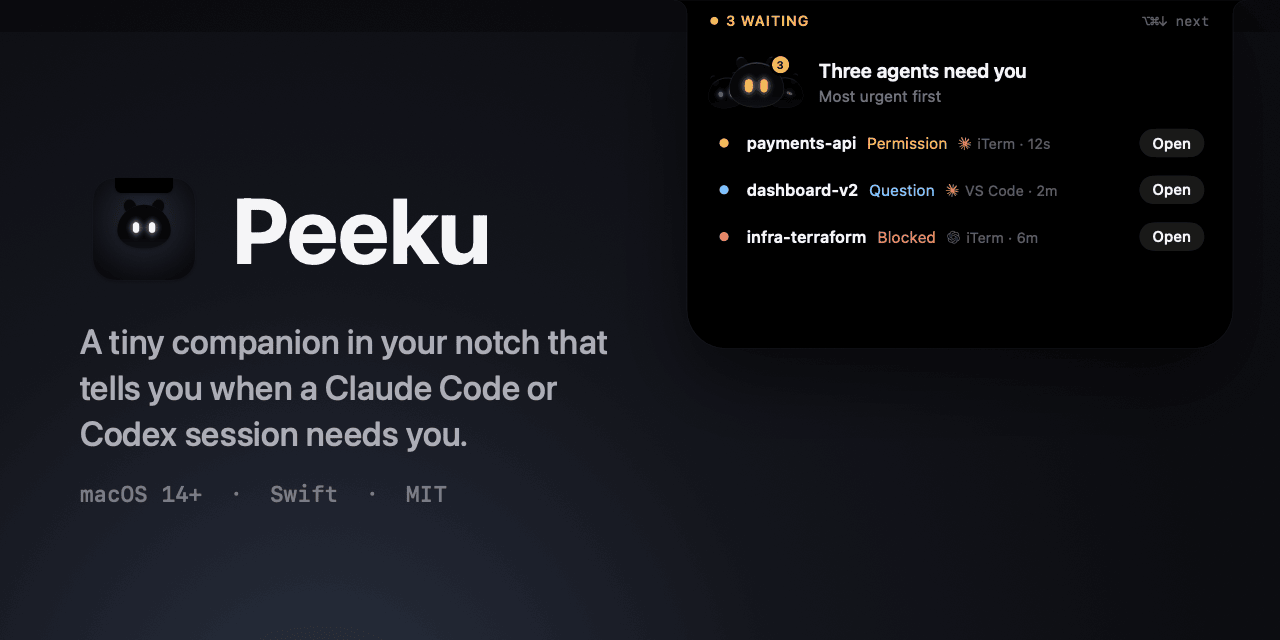
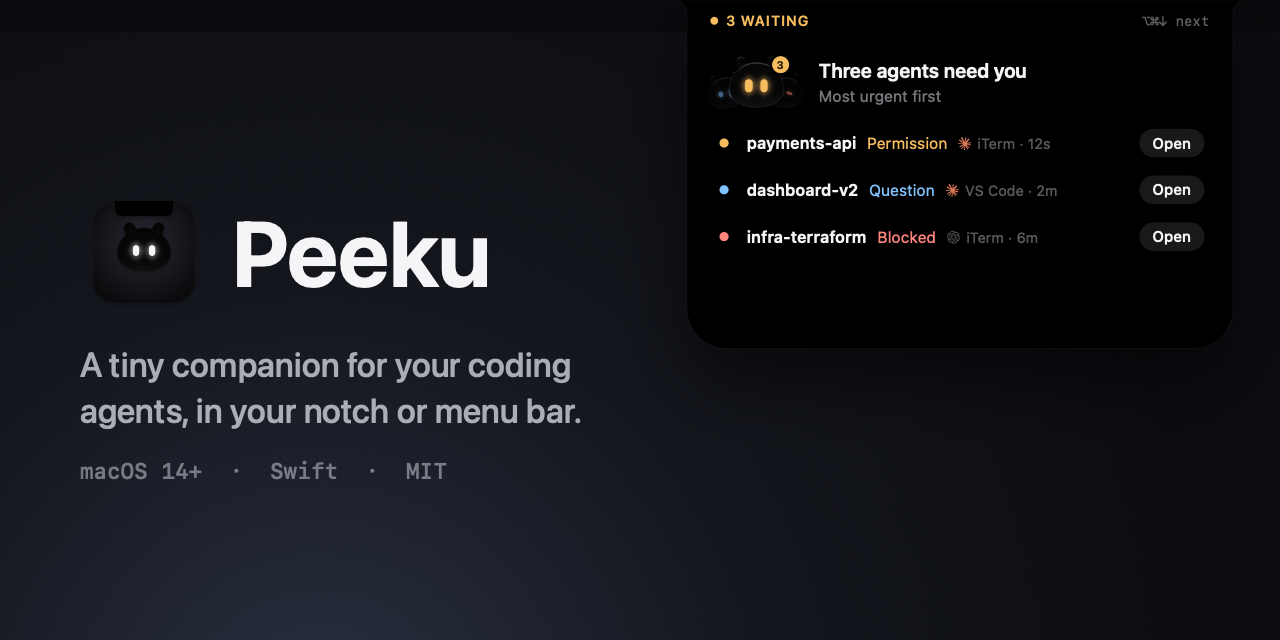
Present Peeku as a companion for your coding agents
The README now opens with the notch or the menu bar, groups features
into agents, usage, dev commands and where Peeku lives, and retitles
the sections that assumed a notch. The website's meta tags and the
social preview use the same line.

diff --git a/docs/index.html b/docs/index.html
@@ -3,24 +3,24 @@
 <head>
 <meta charset="utf-8">
 <meta name="viewport" content="width=device-width, initial-scale=1">
-<title>Peeku: a tiny companion in your MacBook's notch</title>
-<meta name="description" content="A tiny companion that lives in your MacBook's notch and tells you when a Claude Code or Codex session needs you.">
+<title>Peeku: a tiny companion for your coding agents</title>
+<meta name="description" content="A tiny companion for your coding agents. It lives in your notch or menu bar and tells you when Claude Code or Codex needs you.">
 <meta name="theme-color" content="#0d0e12">
 <link rel="canonical" href="https://peeku.ahrefabhi.com/">
 <link rel="icon" type="image/png" href="images/icon.png">
 <link rel="apple-touch-icon" href="images/icon.png">
 <meta property="og:type" content="website">
 <meta property="og:site_name" content="Peeku">
-<meta property="og:title" content="Peeku: a tiny companion in your MacBook's notch">
-<meta property="og:description" content="A tiny companion that lives in your MacBook's notch and tells you when a Claude Code or Codex session needs you.">
+<meta property="og:title" content="Peeku: a tiny companion for your coding agents">
+<meta property="og:description" content="A tiny companion for your coding agents. It lives in your notch or menu bar and tells you when Claude Code or Codex needs you.">
 <meta property="og:url" content="https://peeku.ahrefabhi.com/">
 <meta property="og:image" content="https://peeku.ahrefabhi.com/images/social-preview.png">
 <meta property="og:image:width" content="1280">
 <meta property="og:image:height" content="640">
 <meta property="og:image:alt" content="Peeku, a tiny companion in your notch, showing three agents that need you: a permission request, a question and a blocked run">
 <meta name="twitter:card" content="summary_large_image">
-<meta name="twitter:title" content="Peeku: a tiny companion in your MacBook's notch">
-<meta name="twitter:description" content="A tiny companion that lives in your MacBook's notch and tells you when a Claude Code or Codex session needs you.">
+<meta name="twitter:title" content="Peeku: a tiny companion for your coding agents">
+<meta name="twitter:description" content="A tiny companion for your coding agents. It lives in your notch or menu bar and tells you when Claude Code or Codex needs you.">
 <meta name="twitter:image" content="https://peeku.ahrefabhi.com/images/social-preview.png">
 <meta name="twitter:image:alt" content="Peeku, a tiny companion in your notch, showing three agents that need you: a permission request, a question and a blocked run">
 <link rel="stylesheet" href="site.css">
@@ -90,7 +90,7 @@
       <button type="button" class="chip" data-ev="usage"><i style="background:var(--amber)"></i>Usage alert</button>
     </div>
     <h1>A tiny creature in your notch that watches over your agents.</h1>
-    <p class="hero-sub">A tiny companion that lives in your MacBook's notch and tells you when a Claude Code or Codex session needs you.</p>
+    <p class="hero-sub">A tiny companion for your coding agents. It lives in your notch or menu bar and tells you when Claude Code or Codex needs you.</p>
     <div class="hero-ctas">
       <a href="https://github.com/ahrefabhi/peeku/releases/latest" class="btn-primary">Download for macOS</a>
       <a href="https://github.com/ahrefabhi/Peeku" class="btn-secondary">View on GitHub</a>

diff --git a/Sources/Peeku/Debug/ReadmeImages.swift b/Sources/Peeku/Debug/ReadmeImages.swift
@@ -294,7 +294,7 @@ private struct SocialPreview: View {
                         AppIconView().scaleEffect(128 / AppIconView.canvas).frame(width: 128, height: 128)
                         Text("Peeku").font(.peeku(92, .bold)).foregroundStyle(Tokens.textPrimary)
                     }
-                    Text("A tiny companion in your notch that tells you when a Claude Code or Codex session needs you.")
+                    Text("A tiny companion for your coding agents, in your notch or menu bar.")
                         .font(.peeku(34, .medium))
                         .foregroundStyle(Color.label(0.7))
                         .lineSpacing(6)

diff --git a/README.md b/README.md
@@ -5,7 +5,7 @@
 <h1 align="center">Peeku</h1>
 
 <p align="center">
-  <strong>A tiny companion that lives in your MacBook's notch and tells you when a Claude Code or Codex session needs you.</strong>
+  <strong>A tiny companion for your coding agents. It lives in your notch or menu bar and tells you when Claude Code or Codex needs you.</strong>
 </p>
 
 <p align="center">
@@ -19,34 +19,44 @@
   <img src="docs/images/alert.png" width="760" alt="Peeku's notch expanded into a notification: Claude needs your permission to run npm install stripe@17.2.0 in payments-api, with Open Session and Later buttons">
 </p>
 
-When a session stops to ask for permission, a question or help with an error, Peeku drops out of the notch and tells you why. **Open Session** takes you to the exact terminal tab or editor window.
+When a session stops to ask for permission, a question or help with an error, Peeku drops out of the notch (or climbs down from its menu bar icon) and tells you why. **Open Session** takes you to the exact terminal tab or editor window.
 
 https://github.com/user-attachments/assets/eefa5891-946c-46a3-9c4b-7ca000052e3b
 
 ## Features
 
+**Your agents**
+
 - **Shows why a session is waiting:** the command, the question and its choices, the error, or the agent's last reply.
 - **Opens the right place:** the exact iTerm or Terminal tab, or VS Code window. Other apps (Warp, Ghostty, Zed, Cursor…) come to the front too.
 - **One queue, most urgent first:** permissions, then questions, then errors. Cycle with ⌥⌘↓.
-- **Every session at a glance:** click the notch for what's waiting, working and finished, plus a week of history.
+- **Every session at a glance:** what's waiting, working and finished, plus a week of history.
+
+**Your usage**
+
 - **Rate limits:** your Claude and Codex 5-hour and weekly usage, with alerts at thresholds you set.
 - **Spend:** what today, the last 7 or the last 30 days cost at API prices, tokens used, and bars split by model.
-- **Quick commands:** save `npm run dev` with its folder, then run, restart and stop it from the notch. Read its output, answer its prompts, and hear about it when it fails.
+
+**Your dev commands**
+
+- **Quick commands:** save `npm run dev` with its folder, then run, restart and stop it from the dock at the bottom of the session manager. Read its output, answer its prompts, and hear about it when it fails. Turn it off if you only want the companion.
+
+**Where it lives**
+
+- **Notch or menu bar:** in the notch on a MacBook that has one, or in its own menu bar icon on other Macs or if you'd rather.
 - **Stays out of the way:** alerts fold into a pill, full screen shrinks Peeku to a glow, and it goes quiet while your screen is shared.
 - **Read-only and private:** Peeku never types into or approves anything in your agent sessions, and everything stays on your Mac.
 - **Native:** Swift and SwiftUI, light and dark mode, Reduce Motion, about 6 MB.
 
 ## A closer look
 
-### In the notch
+### Notch or menu bar
 
 Idle, the notch is just the notch. While agents work, two eyes glance around. When something needs you, Peeku drops out.
 
 <p align="center"><img src="docs/images/notch.png" width="760" alt="Three notch states: working with a spinner and a count of 5, Peeku dropping out of the notch with amber eyes, and a folded pill with a badge showing 3 waiting"></p>
 
-### On a Mac without a notch
-
-On an external display or older MacBook, there's no fake notch. Peeku lives in its menu bar icon, and the icon's eyes show what it's doing: they glance around while agents work, and change color with a dot or a count when something needs you. When an agent needs you, Peeku climbs down from the icon, hangs from the menu bar and holds the alert. Click the icon (or press ⌥⌘.) for the session manager, right-click it for the menu.
+On an external display or older MacBook, there's no fake notch. Peeku lives in its menu bar icon instead, and you can choose that on a MacBook with a notch too (**Settings → Show Peeku in**). The icon's eyes show what it's doing: they glance around while agents work, and change color with a dot or a count when something needs you. When an agent needs you, Peeku climbs down from the icon, hangs from the menu bar and holds the alert. Click the icon (or press ⌥⌘.) for the session manager, right-click it for the menu.
 
 <p align="center"><img src="docs/images/menu-bar.png" width="760" alt="Four states of Peeku's menu bar icon on a display without a notch: idle with sleepy eyes, working with open eyes, Peeku climbing down from the icon with amber eyes while the icon shows an amber dot, and folded with a badge showing 3 waiting"></p>
 
@@ -134,7 +144,7 @@ Everything runs on your Mac. The only network request Peeku makes itself is the 
 
 Your settings files are backed up before any change.
 
-## Using Peeku
+## Shortcuts and settings
 
 | Shortcut | Action |
 |---|---|
@@ -146,7 +156,7 @@ Your settings files are backed up before any change.
 | Esc | Fold the alert into the pill, or go back to Agents from Commands or Settings |
 | ⌘1–9 | Open a row by number |
 
-↵, Esc and ⌘1–9 work once the notch has focus. Peeku never takes the keyboard on its own.
+↵, Esc and ⌘1–9 work once Peeku has focus. Peeku never takes the keyboard on its own.
 
 **Goes quiet** (count only, no pop-up or sound) while your screen is shared or recorded, when **Quiet** is on, or for the session you're already looking at. In full screen it shrinks to a glow along the top edge.
 
